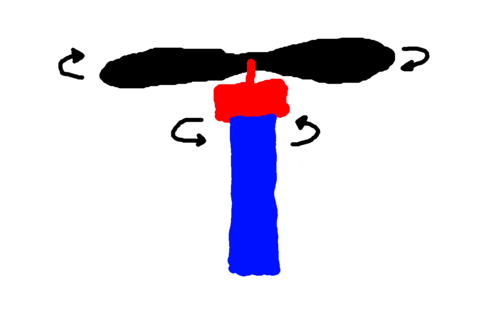
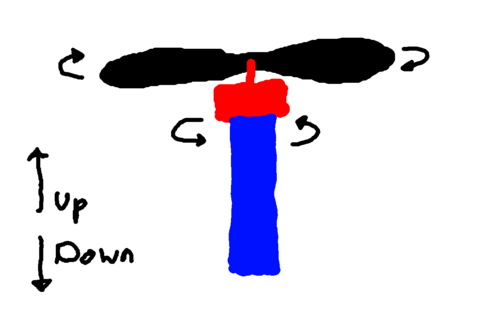
Clarified orientation of the drone in the diagrams

Changed region(s): [[0.06, 0.7476, 0.27, 0.9489], [0.03, 0.4601, 0.18, 0.7188]]

diff --git a/README.md b/README.md
@@ -7,6 +7,9 @@ Will it work? No.
 
 ## Concept
 
+(NOTE: The following diagrams are the view of the drone from side on,
+so up in the diagram is up in real life.)
+
 The first problem with a one-propeller drone is that the angular
 momentum of the blade when it starts spinning causes the body to begin
 to spin in the opposite direction:
